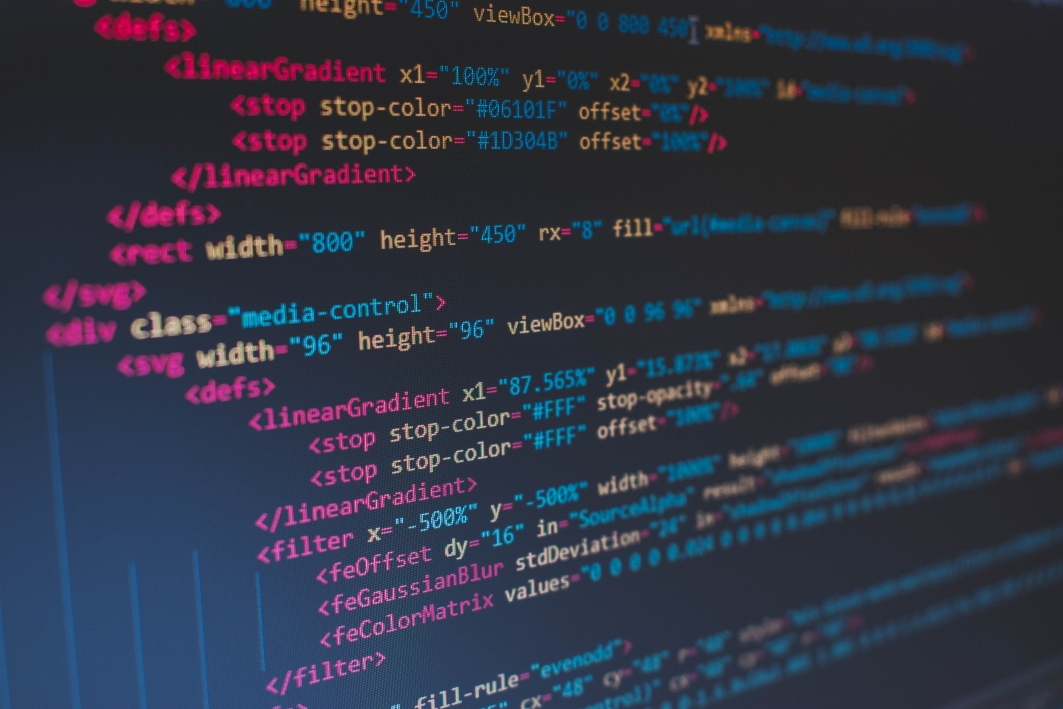
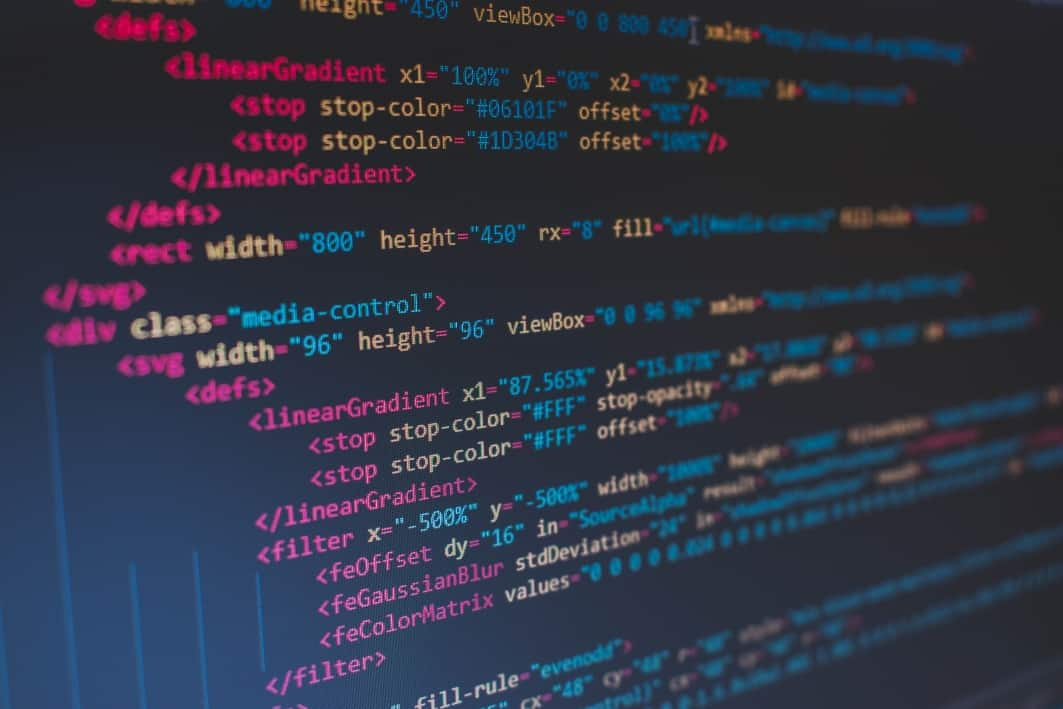
compress images

diff --git a/index.html b/index.html
@@ -94,7 +94,7 @@
                 <p><a href="#contact-section" class="btn smoothscroll btn-primary">Contact Me</a></p>
               </div>
               <div class="col-lg-6">
-                <!-- <img src='images/face2.png' alt='face' class='face'> -->
+                <!-- <img src='images/face2.jpg' alt='face' class='face'> -->
               </div>
             </div>
           </div>
@@ -187,7 +187,7 @@
 
           <div class="col-md-6 mb-5 mb-lg-2 col-lg-4">
             <div class="blog_entry">
-              <a href="https://dev.wunschcoach.net/faq" target="_blank"><img src="images/blog_1.png" alt="Image" class="img-fluid"></a>
+              <a href="https://dev.wunschcoach.net/faq" target="_blank"><img src="images/blog_1.jpg" alt="Image" class="img-fluid"></a>
               <div class="p-4 bg-white">
                 <h3><a href="https://dev.wunschcoach.net" target="_blank">Wunscoach</a></h3>
                 <h3><a>(Gatsby Firebase Netlify)</a></h3>
@@ -200,7 +200,7 @@
 
           <div class="col-md-6 mb-5 mb-lg-2 col-lg-4">
             <div class="blog_entry">
-              <a href="https://apps.apple.com/bj/app/melius-igotrade-app/id1446855560" target="_blank"><img src="images/blog_2.png" alt="Image" class="img-fluid"></a>
+              <a href="https://apps.apple.com/bj/app/melius-igotrade-app/id1446855560" target="_blank"><img src="images/blog_2.jpg" alt="Image" class="img-fluid"></a>
               <div class="p-4 bg-white">
                 <h3><a href="https://apps.apple.com/bj/app/melius-igotrade-app/id1446855560" target="_blank">HeapMap</a></h3>
                 <h3><a>(React Native NodeJs)</a></h3>
@@ -213,7 +213,7 @@
 
           <div class="col-md-6 mb-5 mb-lg-2 col-lg-4">
             <div class="blog_entry">
-              <a href="https://wrapr.io" target="_blank"><img src="images/blog_3.png" alt="Image" class="img-fluid"></a>
+              <a href="https://wrapr.io" target="_blank"><img src="images/blog_3.jpg" alt="Image" class="img-fluid"></a>
               <div class="p-4 bg-white">
                 <h3><a href="https://wrapr.io" target="_blank">Video Wrapper</a></h3>
                 <h3><a>(React Node FFMepg)</a></h3>
@@ -226,7 +226,7 @@
 
           <div class="col-md-6 mb-5 mb-lg-2 col-lg-4">
             <div class="blog_entry">
-              <a href="https://koinly.io" target="_blank"><img src="images/blog_4.png" alt="Image" class="img-fluid"></a>
+              <a href="https://koinly.io" target="_blank"><img src="images/blog_4.jpg" alt="Image" class="img-fluid"></a>
               <div class="p-4 bg-white">
                 <h3><a href="https://koinly.io" target="_blank">Koinly</a></h3>
                 <h3><a>(Gatsby Cryptocurrency)</a></h3>
@@ -239,7 +239,7 @@
 
           <div class="col-md-6 mb-5 mb-lg-2 col-lg-4">
             <div class="blog_entry">
-              <a href="https://play.google.com/store/apps/details?id=com.offerbriteuser&hl=lo" target="_blank"><img src="images/blog_5.png" alt="Image" class="img-fluid"></a>
+              <a href="https://play.google.com/store/apps/details?id=com.offerbriteuser&hl=lo" target="_blank"><img src="images/blog_5.jpg" alt="Image" class="img-fluid"></a>
               <div class="p-4 bg-white">
                 <h3><a href="https://play.google.com/store/apps/details?id=com.offerbriteuser&hl=lo" target="_blank">Offerbrite</a></h3>
                 <h3><a>React Native</a></h3>
@@ -252,7 +252,7 @@
 
           <div class="col-md-6 mb-5 mb-lg-2 col-lg-4">
             <div class="blog_entry">
-              <a href="https://diyar.bh" target="_blank"><img src="images/blog_6.png" alt="Image" class="img-fluid"></a>
+              <a href="https://diyar.bh" target="_blank"><img src="images/blog_6.jpg" alt="Image" class="img-fluid"></a>
               <div class="p-4 bg-white">
                 <h3><a href="https://diyar.bh" target="_blank">Diyar</a></h3>
                 <h3><a>Contentful CMS Gatsby</a></h3>
@@ -281,49 +281,49 @@
 
         <div class="row">
           <div class="col-md-6 col-lg-4 item">
-            <a href="images/img_1.png" class="item-wrap fancybox mb-4">
+            <a href="images/img_1.jpg" class="item-wrap fancybox mb-4">
               <span class="icon-search2"></span>
-              <img class="img-fluid" src="images/img_1.png">
+              <img class="img-fluid" src="images/img_1.jpg">
             </a>
-            <a href="images/img_2.png" class="item-wrap fancybox mb-4">
+            <a href="images/img_2.jpg" class="item-wrap fancybox mb-4">
               <span class="icon-search2"></span>
-              <img class="img-fluid" src="images/img_2.png">
+              <img class="img-fluid" src="images/img_2.jpg">
             </a>
-            <a href="images/img_3.png" class="item-wrap fancybox mb-4">
+            <a href="images/img_3.jpg" class="item-wrap fancybox mb-4">
               <span class="icon-search2"></span>
-              <img class="img-fluid" src="images/img_3.png">
+              <img class="img-fluid" src="images/img_3.jpg">
             </a>
-            <a href="images/img_10.png" class="item-wrap fancybox mb-4">
+            <a href="images/img_10.jpg" class="item-wrap fancybox mb-4">
               <span class="icon-search2"></span>
-              <img class="img-fluid" src="images/img_10.png">
-            </a>
-          </div>
-          <div class="col-md-6 col-lg-4 item">
-            <a href="images/img_1.png" class="item-wrap fancybox mb-4">
-              <span class="icon-search2"></span>
-              <img class="img-fluid" src="images/img_4.png">
-            </a>
-            <a href="images/img_5.png" class="item-wrap fancybox mb-4">
-              <span class="icon-search2"></span>
-              <img class="img-fluid" src="images/img_5.png">
-            </a>
-            <a href="images/img_8.png" class="item-wrap fancybox mb-4">
-              <span class="icon-search2"></span>
-              <img class="img-fluid" src="images/img_8.png">
+              <img class="img-fluid" src="images/img_10.jpg">
             </a>
           </div>
           <div class="col-md-6 col-lg-4 item">
-            <a href="images/img_6.png" class="item-wrap fancybox mb-4">
+            <a href="images/img_1.jpg" class="item-wrap fancybox mb-4">
               <span class="icon-search2"></span>
-              <img class="img-fluid" src="images/img_6.png">
+              <img class="img-fluid" src="images/img_4.jpg">
             </a>
-            <a href="images/img_7.png" class="item-wrap fancybox mb-4">
+            <a href="images/img_5.jpg" class="item-wrap fancybox mb-4">
               <span class="icon-search2"></span>
-              <img class="img-fluid" src="images/img_7.png">
+              <img class="img-fluid" src="images/img_5.jpg">
             </a>
-            <a href="images/img_9.png" class="item-wrap fancybox mb-4">
+            <a href="images/img_8.jpg" class="item-wrap fancybox mb-4">
               <span class="icon-search2"></span>
-              <img class="img-fluid" src="images/img_9.png">
+              <img class="img-fluid" src="images/img_8.jpg">
+            </a>
+          </div>
+          <div class="col-md-6 col-lg-4 item">
+            <a href="images/img_6.jpg" class="item-wrap fancybox mb-4">
+              <span class="icon-search2"></span>
+              <img class="img-fluid" src="images/img_6.jpg">
+            </a>
+            <a href="images/img_7.jpg" class="item-wrap fancybox mb-4">
+              <span class="icon-search2"></span>
+              <img class="img-fluid" src="images/img_7.jpg">
+            </a>
+            <a href="images/img_9.jpg" class="item-wrap fancybox mb-4">
+              <span class="icon-search2"></span>
+              <img class="img-fluid" src="images/img_9.jpg">
             </a>
           </div>
         </div>
